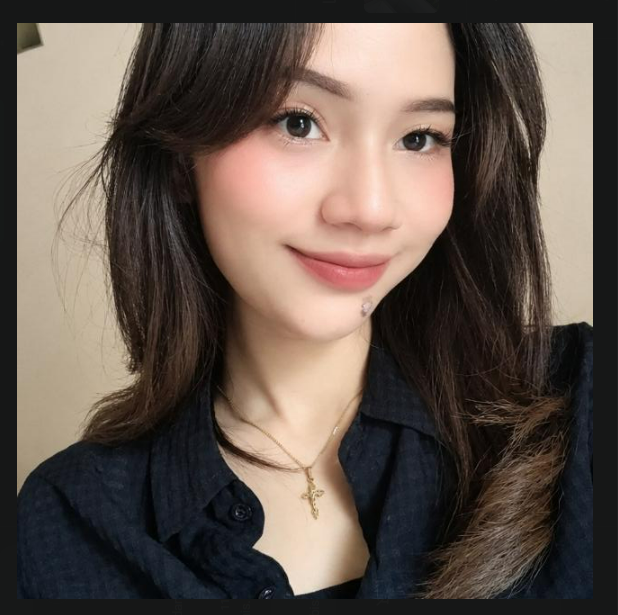
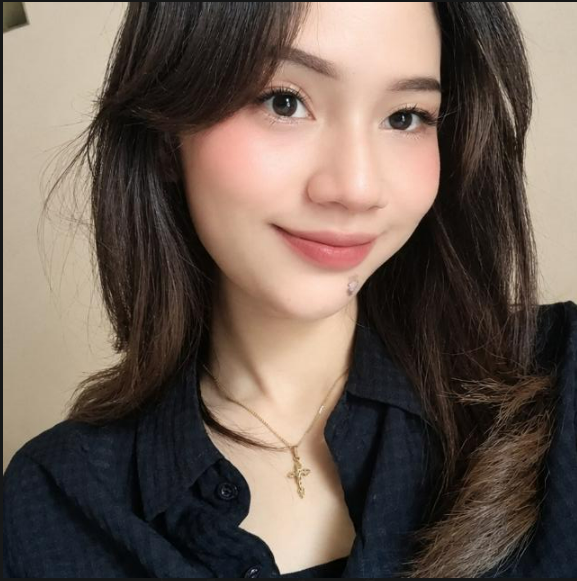
update

diff --git a/index.html b/index.html
@@ -29,7 +29,7 @@
                 Hi
                 <span id="name">Indah Putri Ayu</span>
             </h1>
-            <p class="two" id="greetingText">Indah Putri Ayu namaa yangg begituu cocok</p>
+            <p class="two" id="greetingText">Selamat Ulang Tahun ya Indah!</p>
         </div>
 
         <div class="three">
@@ -39,23 +39,24 @@
         <div class="four">
             <div class="text-box">
                 <p class="hbd-chatbox">
-                Happy birthday to youu!!! Jaga kesehatann dann semangatmuu, yaaa. Semogaa setiapp hariimuu diisi dengan kebahagiann kecill yangg membuattmu merasaa bersyukurr dan tersenyumm. Aku mungkin engga selaluu adaa buatt kamuu, tapii dukungann untukkmuu engga pernahh hilangg. Teruslah berjalann dengann percayaa dirii. percayalahh adaa banyakk hall baikk yangg menunggumuu didepann, dan akuu selaluu yakinn kamuu bisaa melewatii setiapp tantangann dengann kuatt
+                Happy birthday! Jaga kesehatan dan tetap semangat ya. Semoga di umur yang baru ini hari-harimu makin lancar, banyak hal baik yang datang, dan selalu diberi kemudahan melewati tiap tantangan. Terus berjalan dengan percaya diri, kamu pasti bisa!
                 </p>
                 <p class="fake-btn">Send</p>
             </div>
         </div>
 
         <div class="five">
-            <p class="idea-1">Akuu selaluu adaa untukk mendukungmuuu,<br> tidakk pedulii seberapaa sulitt tantangannn yangg kamuuu hadapii.</p>
-            <p class="idea-2">Kesehatanmuuu pentinggg,<br>jadiii jangann lupaa istirahatt dann jagaa dirimuu baikk-baikk, yaaa.</p>
+            <p class="idea-1">Tetap semangat ya,<br> mau sesulit apa pun tantangan yang lagi dihadapi.</p>
+            <p class="idea-2">Kesehatan itu nomor satu,<br>jadi jangan lupa istirahat dan jaga diri baik-baik.</p>
             <p class="idea-3">
-                Akuuu banggaa dengannn usahamuu belajarr ngodingg,<br> tetapp semangatt dann jangann menyerahh<br>
-                <strong>Kamuu adalahhh oranggg yanggg luarrr biasaaa,<br> Senanggg bisaaa menjadiii temanmuuu.</strong>
+                Keren dan Apresiasi banget sama usahamu belajar hal baru.<br>
+                <strong>Kamu orang yang hebat,<br> senang bisa kenal dan berteman sama kamu.</strong>
                 
             </p>
-            <p class="idea-4">Kalauu adaa apaaa-apaaa, jangann raguuu untukk ceritaaa yaaaaa,<br> akuuuu selaluuu siappp mendengarkannn.</p>
+            <p class="idea-4">Kalau lagi butuh teman cerita,<br> kabari aja, aku selalu siap mendengarkan.</p>
             <p class="idea-5">
-                Terimaaa kasihhhh sudahhh menjadiiii temannnn baikkkkuuu.
+                Terima kasih sudah menjadi teman yang baik dan selalu support aku.<br>
+                Semoga kita bisa terus berteman dan saling support satu sama lain ya.<br>
                 <span>:)</span>
             </p>
             <p class="idea-6">
@@ -69,7 +70,7 @@
             <img src="img/hat.svg" alt="hat" class="hat" />
             <div class="wish">
                 <h3 class="wish-hbd">Happy Birthday!</h3>
-                <h5 id="wishText">I hope you always meet good people. ;)</h5>
+                <h5 id="wishText">Semoga selalu dikelilingi hal-hal dan orang-orang baik. ;)</h5>
             </div>
         </div>
 
